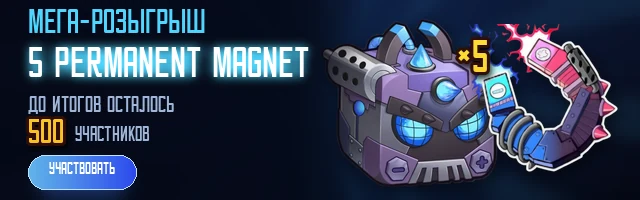
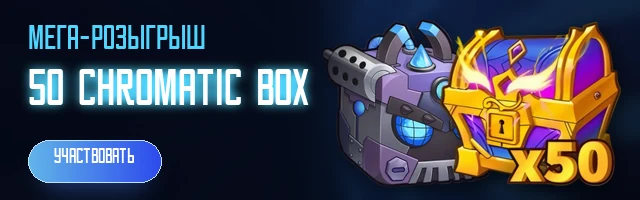
feat(promo): в розыгрыше 50 Chromatic Box, магнит и счётчик убраны
Приз розыгрыша сменился: вместо 5 permanent Magnet разыгрывается сундук
Chromatic ×50. Счётчик «до итогов осталось 500 участников» из объявления
убран — число жило внутри картинки, и каждая правка означала перегенерацию
всех четырёх макетов, а обещание «итоги на 500-м участнике» этой правкой
приходилось бы подтверждать заново.

Что сделано:

* tools/make-giveaway-creatives.py: приз — giveaway-chromatic.webp, весь
  код счётчика (COUNT/COUNT_UNIT, count_lead, count_value) и значок «×5»
  вместе с gold_num/text_grad и золотой палитрой удалены. Значок «x50»
  нарисован внутри самого арта сундука, дорисовывать число не надо.
* Освободившееся место отдано арту: во всех четырёх слотах приз стал
  крупнее, кнопка «УЧАСТВОВАТЬ» осталась на прежнем месте. Каждый макет
  пересчитан под свои пропорции, а не растянут из одного файла.
* Макеты assets/promo/giveaway-*.webp перерисованы: 23-52 KB против
  потолков 200-400 KB из CREATIVE_SPECS.
* promo.giveawayText в обоих словарях переписан под один приз без числа.

id кампании намеренно оставлен прежним (house-giveaway-magnet-chromatic):
счётчик показов окна ведётся по нему (shouldShowPopup -> seenRec), и смена
id заново всплыла бы окном у всех, кто розыгрыш уже видел. Сменено только
name — оно видно списком в админке и теперь не врёт про магнит.

Проверка: tests/run_all.sh — 25 файлов PHP и 8 node (216 тестов), всё
зелёное. Браузерная tools/check-giveaway-ui.mjs не гонялась: Playwright в
[…]

diff --git a/public_html/js/i18n.js b/public_html/js/i18n.js
@@ -224,7 +224,7 @@
       "promo.houseTgText":      "Свежие цены, розыгрыши и новости Blox Fruits — в нашем телеграм-канале",
       "promo.houseTgCta":       "Открыть канал",
 
-      "promo.giveawayText":     "Розыгрыш в честь Update 30: 5 permanent Magnet. До итогов осталось 500 участников",
+      "promo.giveawayText":     "Розыгрыш в честь Update 30: 50 Chromatic Box",
       "promo.giveawayCta":      "Участвовать",
       "promo.playerokText":     "Фрукты, мутации, скины и донат — по лучшим ценам на Playerok",
       "promo.playerokCta":      "Перейти на Playerok",
@@ -658,7 +658,7 @@
       "promo.cta":              "Open",
       "promo.houseTgText":      "Fresh prices, giveaways and Blox Fruits news — in our Telegram channel",
       "promo.houseTgCta":       "Open the channel",
-      "promo.giveawayText":     "Update 30 giveaway: 5 permanent Magnet. 500 participants to go",
+      "promo.giveawayText":     "Update 30 giveaway: 50 Chromatic Box",
       "promo.giveawayCta":      "Enter the giveaway",
       "promo.playerokText":     "Fruits, mutations, skins and top-ups at the best prices on Playerok",
       "promo.playerokCta":      "Go to Playerok",

diff --git a/public_html/js/promo.js b/public_html/js/promo.js
@@ -392,7 +392,7 @@
 
   var HOUSE_GIVEAWAY = {
     id: "house-giveaway-magnet-chromatic",
-    name: "house-giveaway-magnet",
+    name: "house-giveaway-chromatic",
     advertiser: "",
     enabled: true,
     weight: 1,

diff --git a/tools/make-giveaway-creatives.py b/tools/make-giveaway-creatives.py
@@ -1,4 +1,4 @@
-"""Креативы кампании «Розыгрыш: 5 permanent Magnet».
+"""Креативы кампании «Розыгрыш: 50 Chromatic Box».
 
     python tools/make-giveaway-creatives.py                                   # в out/
     python tools/make-giveaway-creatives.py --as giveaway --out public_html/assets/promo
@@ -9,19 +9,17 @@
 Размеры берутся из CREATIVE_SPECS в api/lib/images.php: файл, который не влез
 в потолок слота, сервер либо ужмёт (still), либо отвергнет (анимация).
 
-Исходники — tools/art/giveaway-magnet.webp и giveaway-robot.webp: арт предмета
-Magnet и робот Update 30, обрезанные по альфе.
+Исходники — tools/art/giveaway-chromatic.webp и giveaway-robot.webp: сундук
+Chromatic и робот Update 30, обрезанные по альфе. Значок «x50» нарисован
+внутри самого арта сундука, поэтому числом приза макет не занимается.
 
-Приз один, и макет строится вокруг трёх вещей, которые обязаны прочитаться за
-секунду: что разыгрывают, сколько осталось до итогов и куда нажать. Отсюда
-счётчик COUNT/COUNT_UNIT и кнопка «УЧАСТВОВАТЬ» во всех четырёх местах.
+Приз один, и в макете осталось ровно две вещи: что разыгрывают и куда нажать.
+Освободившееся от счётчика место отдано арту — приз должен быть самым крупным
+пятном во всех четырёх местах.
 
-ВАЖНО про счётчик: число нарисовано внутри картинки. Поменялось — правим
-COUNT здесь и перегенерируем все четыре макета, иначе места разойдутся в
-том, сколько осталось.
-
-Вариант с двумя призами (Magnet + Chromatic Box) и три ранних макета
-(«дуэт», «билет», «босс») лежат в истории git до этого коммита.
+Вариант со счётчиком «до итогов осталось N участников», вариант с двумя
+призами (Magnet + Chromatic Box) и три ранних макета («дуэт», «билет», «босс»)
+лежат в истории git до этого коммита.
 
 Нужен Pillow.
 """
@@ -49,21 +47,11 @@ MUTED = (159, 182, 216)
 GRAD_A = (97, 181, 233)
 GRAD_B = (45, 74, 237)
 
-# Золото значка «x5»: снято пипеткой с игрового арта, чтобы дорисованный
-# значок не выглядел нарисованным в другой игре.
-GOLD_HI = (253, 232, 63)
-GOLD_LO = (247, 176, 24)
-GOLD_INK = (46, 14, 7)
-
 # Тексты. Русский — как у объявления, которое стоит в канале.
 T_HEAD = "РОЗЫГРЫШ"
 T_HEAD_BIG = "МЕГА-РОЗЫГРЫШ"
-T_PRIZE = "5 PERMANENT MAGNET"
-T_PRIZE2 = ["5 PERMANENT", "MAGNET"]
-T_COUNT_LEAD = "ДО ИТОГОВ ОСТАЛОСЬ"
-T_COUNT_LEAD2 = ["ДО ИТОГОВ", "ОСТАЛОСЬ"]
-COUNT = "500"
-COUNT_UNIT = "УЧАСТНИКОВ"
+T_PRIZE = "50 CHROMATIC BOX"
+T_PRIZE2 = ["50 CHROMATIC", "BOX"]
 T_BTN = "УЧАСТВОВАТЬ"
 
 
@@ -135,28 +123,6 @@ def text_glow(img, xy, text, f, fill, glow_col, blur, anchor="mm", stroke=0, str
                              stroke_width=stroke, stroke_fill=stroke_fill)
 
 
-def text_grad(img, xy, text, f, grad, anchor="mm", stroke=0, stroke_fill=None):
-    """Текст, залитый градиентом (картинка того же размера, что холст)."""
-    mask = Image.new("L", img.size, 0)
-    ImageDraw.Draw(mask).text(xy, text, font=f, fill=255, anchor=anchor,
-                              stroke_width=stroke, stroke_fill=255 if stroke_fill is None else 255)
-    img.paste(grad, (0, 0), mask)
-
-
-def gold_num(img, xy, text, px, anchor="mm"):
-    """Число в стиле игрового значка: золотой градиент, тёмный контур, тень."""
-    f = font(px)
-    stroke = max(2, round(px * 0.075))
-    sh = Image.new("RGBA", img.size, (0, 0, 0, 0))
-    ImageDraw.Draw(sh).text((xy[0] + px * 0.05, xy[1] + px * 0.09), text, font=f,
-                            fill=(0, 0, 0, 190), anchor=anchor, stroke_width=stroke,
-                            stroke_fill=(0, 0, 0, 190))
-    img.alpha_composite(sh.filter(ImageFilter.GaussianBlur(max(2, px // 14))))
-    ImageDraw.Draw(img).text(xy, text, font=f, fill=GOLD_INK + (255,), anchor=anchor,
-                             stroke_width=stroke, stroke_fill=GOLD_INK + (255,))
-    text_grad(img, xy, text, f, vgrad(img.width, img.height, GOLD_HI, GOLD_LO), anchor=anchor)
-
-
 def art(name):
     return Image.open(ART / name).convert("RGBA")
 
@@ -181,35 +147,8 @@ def drop(img, im, x, y, shadow=True):
 
 
 # ===========================================================================
-#  Счётчик и кнопка
+#  Кнопка
 # ===========================================================================
-
-def count_lead(img, xy, max_w, px, anchor="lm"):
-    """Подпись «ДО ИТОГОВ ОСТАЛОСЬ» — приглушённая, число рядом громче."""
-    d = ImageDraw.Draw(img)
-    d.text(xy, T_COUNT_LEAD, font=fit(d, T_COUNT_LEAD, max_w, px), fill=MUTED + (255,), anchor=anchor)
-
-
-def count_value(img, x, y, max_w, num_px, unit_px, center=False):
-    """«2000 УЧАСТНИКОВ»: число золотом, единица — приглушённым текстом.
-
-    Строка ужимается целиком: если ужать только число, единица уедет за край
-    колонки, а если только единицу — она станет нечитаемой раньше числа.
-    """
-    d = ImageDraw.Draw(img)
-    while True:
-        nw = d.textlength(COUNT, font=font(num_px))
-        uw = d.textlength(COUNT_UNIT, font=font(unit_px))
-        gap = num_px * 0.32
-        if nw + gap + uw <= max_w or num_px <= 12:
-            break
-        num_px -= 2
-        unit_px = max(9, int(unit_px * 0.94))
-    x0 = x - (nw + gap + uw) / 2 if center else x
-    gold_num(img, (x0, y), COUNT, num_px, anchor="lm")
-    d.text((x0 + nw + gap, y + num_px * 0.05), COUNT_UNIT, font=font(unit_px),
-           fill=MUTED + (255,), anchor="lm")
-
 
 def button(img, box, text=T_BTN):
     """Кнопка «Участвовать»: градиент шапки сайта, свечение под ней.
@@ -256,15 +195,14 @@ def bg(w, h):
 
 def creative(slot, w, h):
     img = bg(w, h)
-    magnet = art("giveaway-magnet.webp")
+    chest = art("giveaway-chromatic.webp")
     robot = art("giveaway-robot.webp")
 
     if slot in ("strip", "dock"):
         r = scaled(robot, h=int(h * 0.96))
         drop(img, r, int(w * 0.50), int(h * 0.02))
-        m = scaled(magnet, h=int(h * 0.76))
-        drop(img, m, w - m.width - int(w * 0.03), int(h * 0.12))
-        gold_num(img, (w - m.width - int(w * 0.026), int(h * 0.30)), "×5", int(h * 0.23))
+        c = scaled(chest, h=int(h * 0.82))
+        drop(img, c, w - c.width - int(w * 0.03), int(h * 0.11))
 
         # Затемнение слева, чтобы текст лёг на арт.
         veil = Image.new("RGBA", (w, h), (0, 0, 0, 0))
@@ -274,30 +212,27 @@ def creative(slot, w, h):
         left = int(w * 0.045)
         colw = int(w * 0.44)
         d = ImageDraw.Draw(img)
-        d.text((left, int(h * 0.12)), T_HEAD_BIG, font=fit(d, T_HEAD_BIG, colw, int(h * 0.17)),
+        d.text((left, int(h * 0.20)), T_HEAD_BIG, font=fit(d, T_HEAD_BIG, colw, int(h * 0.17)),
                fill=CYAN + (255,), anchor="lm")
-        text_glow(img, (left, int(h * 0.33)), T_PRIZE, fit(d, T_PRIZE, colw, int(h * 0.26)),
+        text_glow(img, (left, int(h * 0.46)), T_PRIZE, fit(d, T_PRIZE, colw, int(h * 0.28)),
                   INK, CYAN, max(4, h // 30), anchor="lm")
-        count_lead(img, (left, int(h * 0.53)), colw * 0.72, int(h * 0.115))
-        count_value(img, left, int(h * 0.67), colw, int(h * 0.17), int(h * 0.105))
 
-        bh = int(h * 0.17)
-        button(img, [left, h - bh - int(h * 0.055), left + button_width(T_BTN, int(bh * 0.50), bh * 0.62),
-                     h - int(h * 0.055)])
+        bh = int(h * 0.21)
+        button(img, [left, h - bh - int(h * 0.09), left + button_width(T_BTN, int(bh * 0.50), bh * 0.62),
+                     h - int(h * 0.09)])
         return img
 
     if slot == "rail":
-        # Предметы каскадом; ниже 840 начинается вуаль со счётчиком и
-        # кнопкой, и наезжать на неё арту нельзя.
-        r = scaled(robot, w=int(w * 1.08))
-        drop(img, r, (w - r.width) // 2, 300)
-        m = scaled(magnet, w=int(w * 0.82))
-        drop(img, m, (w - m.width) // 2 - 6, 600)
-        gold_num(img, (w - 58, 702), "×5", 84)
+        # Предметы каскадом; ниже 1020 начинается вуаль с кнопкой, и наезжать
+        # на неё арту нельзя.
+        r = scaled(robot, w=int(w * 1.12))
+        drop(img, r, (w - r.width) // 2, 352)
+        c = scaled(chest, w=int(w * 0.98))
+        drop(img, c, (w - c.width) // 2, 702)
 
         veil = Image.new("RGBA", (w, h), (0, 0, 0, 0))
         ImageDraw.Draw(veil).rectangle([0, 0, w, 300], fill=(4, 8, 22, 196))
-        ImageDraw.Draw(veil).rectangle([0, h - 360, w, h], fill=(4, 8, 22, 218))
+        ImageDraw.Draw(veil).rectangle([0, h - 180, w, h], fill=(4, 8, 22, 218))
         img.alpha_composite(veil.filter(ImageFilter.GaussianBlur(28)))
 
         d = ImageDraw.Draw(img)
@@ -308,33 +243,24 @@ def creative(slot, w, h):
             d.text((w / 2, 204 + i * 46), line, font=fit(d, line, w - 40, 48),
                    fill=INK + (255,), anchor="mm")
 
-        for i, line in enumerate(T_COUNT_LEAD2):
-            d.text((w / 2, 866 + i * 36), line, font=fit(d, line, w - 60, 34),
-                   fill=MUTED + (255,), anchor="mm")
-        gold_num(img, (w / 2, 972), COUNT, 104)
-        d.text((w / 2, 1042), COUNT_UNIT, font=fit(d, COUNT_UNIT, w - 40, 34),
-               fill=MUTED + (255,), anchor="mm")
         button(img, [22, h - 108, w - 22, h - 34])
         return img
 
     # popup 800×800
-    r = scaled(robot, h=344)
+    r = scaled(robot, h=348)
     drop(img, r, (w - r.width) // 2, 172)
-    m = scaled(magnet, h=250)
-    drop(img, m, 6, 292)
-    gold_num(img, (224, 462), "×5", 84)
+    c = scaled(chest, h=300)
+    drop(img, c, 14, 318)
 
     veil = Image.new("RGBA", (w, h), (0, 0, 0, 0))
     ImageDraw.Draw(veil).rectangle([0, 0, w, 196], fill=(4, 8, 22, 206))
-    ImageDraw.Draw(veil).rectangle([0, h - 254, w, h], fill=(4, 8, 22, 232))
+    ImageDraw.Draw(veil).rectangle([0, h - 148, w, h], fill=(4, 8, 22, 232))
     img.alpha_composite(veil.filter(ImageFilter.GaussianBlur(30)))
 
     d = ImageDraw.Draw(img)
     d.text((w / 2, 62), T_HEAD_BIG, font=fit(d, T_HEAD_BIG, w - 120, 74), fill=CYAN + (255,), anchor="mm")
     text_glow(img, (w / 2, 142), T_PRIZE, fit(d, T_PRIZE, w - 80, 86), INK, CYAN, 13, anchor="mm")
-    count_lead(img, (w / 2, 588), w - 220, 38, anchor="mm")
-    count_value(img, w / 2, 646, w - 180, 76, 40, center=True)
-    button(img, [150, 700, w - 150, 772])
+    button(img, [150, 694, w - 150, 770])
     return img
 
 

diff --git a/public_html/news.php b/public_html/news.php
@@ -355,11 +355,11 @@ $robots = $notFound ? 'noindex, follow' : 'index, follow, max-image-preview:larg
 <?php if ($linkedPostId !== null): ?>
   <script>window.NX_LINKED_POST_ID = <?= (int)$linkedPostId ?>;</script>
 <?php endif; ?>
-  <script src="js/i18n.js?v=40"></script>
+  <script src="js/i18n.js?v=41"></script>
   <script src="js/news.js?v=5"></script>
   <script src="js/news-blocks.js?v=2"></script>
 
-  <script src="js/promo.js?v=9"></script>
+  <script src="js/promo.js?v=10"></script>
 
   <script src="js/promo-dock.js?v=5"></script>
 

diff --git a/public_html/index.php b/public_html/index.php
@@ -537,11 +537,11 @@ if (!defined('TESTING') && !defined('NX_ADMIN_RENDER')) {
 
   <script>window.NX_REV = <?= (int)$nxRev ?>;</script>
 <?php endif; ?>
-  <script src="js/i18n.js?v=40"></script>
+  <script src="js/i18n.js?v=41"></script>
   <script src="js/content.js?v=3"></script>
   <script src="js/tiers.js?v=2"></script>
 
-  <script src="js/promo.js?v=9"></script>
+  <script src="js/promo.js?v=10"></script>
 
   <script src="js/protect.js?v=2"></script>
   <script src="js/app.js?v=73"></script>

diff --git a/public_html/calculator.php b/public_html/calculator.php
@@ -414,8 +414,8 @@ header('Cache-Control: no-cache, must-revalidate');
     </div>
   </div>
 
-  <script src="js/i18n.js?v=40"></script>
-  <script src="js/promo.js?v=9"></script>
+  <script src="js/i18n.js?v=41"></script>
+  <script src="js/promo.js?v=10"></script>
 
   <script src="js/promo-dock.js?v=5"></script>
 

diff --git a/public_html/home.php b/public_html/home.php
@@ -353,7 +353,7 @@ header('Cache-Control: no-cache, must-revalidate');
     </p>
 </footer>
 
-<script src="js/i18n.js?v=40"></script>
+<script src="js/i18n.js?v=41"></script>
 <script src="js/home.js?v=5"></script>
 </body>
 </html>

diff --git a/public_html/admin-promo.php b/public_html/admin-promo.php
@@ -115,7 +115,7 @@ echo <<<HTML
   </main>
 </div>
 
-<script src="/js/promo.js?v=9"></script>
+<script src="/js/promo.js?v=10"></script>
 <script src="/js/promo-admin.js?v=4"></script>
 </body>
 </html>
